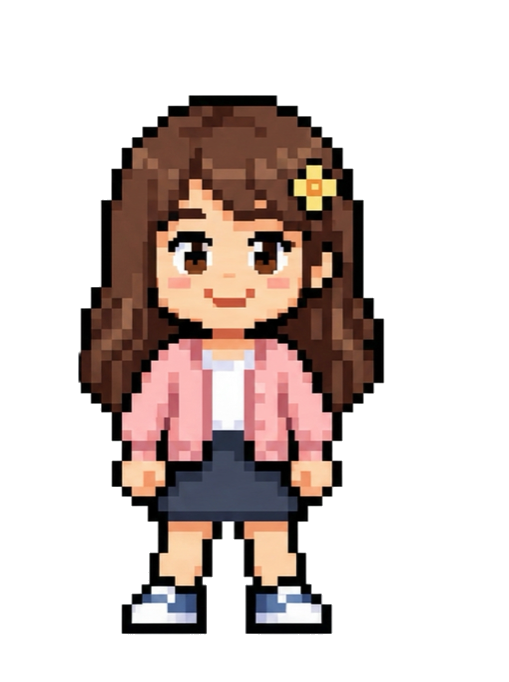
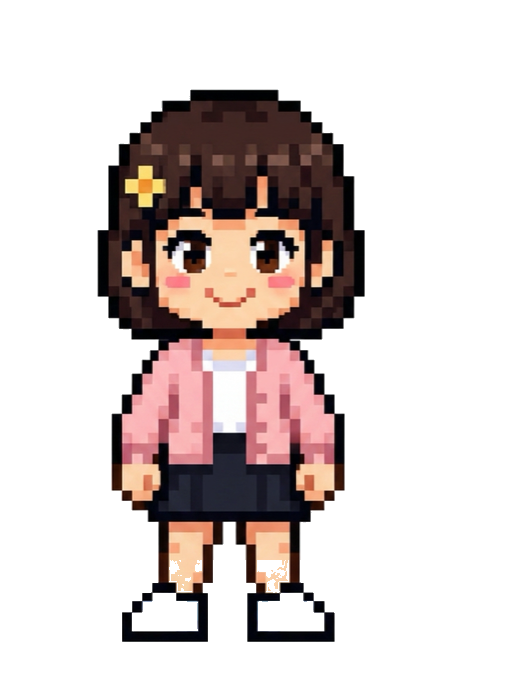
fix: Redraw Player 2 as cute short-haired girl facing right and fix polaroid flip button overlap

Changed region(s): [[0.1473, 0.1232, 0.7662, 0.9545], [0.3831, 0.5235, 0.4126, 0.5543]]

diff --git a/index.html b/index.html
@@ -198,7 +198,7 @@
 
     /* 3D Flippable Polaroid Memory Card */
     .polaroid-card{
-      display:none; margin-top:14px; perspective: 1000px;
+      display:none; margin-top:14px; margin-bottom:24px; perspective: 1000px;
       animation:polaroidPop .35s ease-out both;
     }
     .polaroid-card.show{display:block}
@@ -207,7 +207,7 @@
       100%{transform:scale(1) rotate(-1deg);opacity:1}
     }
     .polaroid-inner{
-      position: relative; width: 100%; transition: transform 0.6s cubic-bezier(0.4, 0, 0.2, 1);
+      position: relative; width: 100%; min-height: 410px; transition: transform 0.6s cubic-bezier(0.4, 0, 0.2, 1);
       transform-style: preserve-3d;
     }
     .polaroid-card.flipped .polaroid-inner{
@@ -217,13 +217,13 @@
       background:#fff; border:4px solid var(--ink); padding:16px 16px 14px;
       box-shadow:6px 6px 0 #0005; border-radius:6px;
       backface-visibility: hidden; -webkit-backface-visibility: hidden;
+      display: flex; flex-direction: column; justify-content: space-between; box-sizing: border-box;
     }
     .polaroid-front{
-      transform: rotate(-0.5deg);
+      transform: rotate(-0.5deg); min-height: 410px;
     }
     .polaroid-back{
-      transform: rotateY(180deg) rotate(0.5deg); position: absolute; top: 0; left: 0; width: 100%; height: 100%;
-      display: flex; flex-direction: column; justify-content: space-between; box-sizing: border-box;
+      transform: rotateY(180deg) rotate(0.5deg); position: absolute; top: 0; left: 0; width: 100%; height: 100%; min-height: 410px;
     }
     .polaroid-header{
       display:flex; justify-content:space-between; align-items:center; margin-bottom:10px;
@@ -243,10 +243,10 @@
     .polaroid-photo-frame{
       background: #fdfaf4; border: 3px solid var(--ink); padding: 8px 8px 10px;
       box-shadow: inset 0 0 8px rgba(0,0,0,0.06); text-align: center; border-radius: 4px;
-      flex: 1; display: flex; flex-direction: column; justify-content: center;
+      flex: 1; display: flex; flex-direction: column; justify-content: center; margin-bottom: 6px;
     }
     .polaroid-real-img{
-      width: 100%; height: 175px; object-fit: cover; border-radius: 2px;
+      width: 100%; height: 170px; object-fit: cover; border-radius: 2px;
       border: 2px solid #ecdac6; display: block;
     }
     .polaroid-photo-caption{
@@ -256,21 +256,26 @@
     .polaroid-flip-btn{
       width: 100%; background: #fef3c7; border: 2px dashed #f59e0b; border-radius: 8px;
       padding: 7px 10px; font-weight: 900; font-size: 12px; color: #92400e; cursor: pointer;
-      margin: 6px 0 10px; display: flex; align-items: center; justify-content: center; gap: 6px;
+      margin: 4px 0 8px; display: flex; align-items: center; justify-content: center; gap: 6px;
       transition: .12s transform, .12s background;
     }
     .polaroid-flip-btn:hover{background: #fde68a}
     .polaroid-flip-btn:active{transform: scale(0.97)}
 
     .finish-panel{
-      display:none;border:4px solid var(--ink);background:#fff8e8;padding:14px;margin-top:12px;
+      display:none;border:4px solid var(--ink);background:#fff8e8;padding:14px;margin-top:12px;margin-bottom:20px;
       text-align:center;box-shadow:4px 4px 0 #0004;border-radius:8px;
     }
     .finish-panel.show{display:block}
     .finish-panel .score{font-size:20px;font-weight:900;color:#c47b00;margin-bottom:6px}
     .skip-link{
-      display:block;margin:8px auto 0;border:0;background:transparent;text-decoration:underline;
+      display:block;margin:8px auto 16px;border:0;background:transparent;text-decoration:underline;
       color:var(--ink);font-size:11px;cursor:pointer;opacity:.65;
+    }
+    .screen:has(.polaroid-card.show) .skip-link,
+    .screen:has(.finish-panel.show) .skip-link,
+    .screen:has(.reveal-card.show) .skip-link{
+      display:none !important;
     }
 
     /* Final Reveal & Wedding Features */
@@ -1345,6 +1350,7 @@
     const finishPanel=document.getElementById(code+'-finish'); if(finishPanel) finishPanel.classList.remove('show');
     const memoryCard=document.getElementById(code+'-memory'); if(memoryCard) memoryCard.classList.remove('show');
     const revealCard=document.getElementById(code+'-reveal'); if(revealCard) revealCard.classList.remove('show');
+    const skipBtn=document.querySelector('#'+code+' .skip-link'); if(skipBtn) skipBtn.style.display='';
     const coinCount=document.getElementById(code+'-coin-count'); if(coinCount) coinCount.textContent='0';
     const status=document.getElementById(code+'-status');
     if(status) status.textContent=(code==='final' ? 'Collect love items →' : 'Run & Collect →');
@@ -1832,6 +1838,13 @@
     const g=games[code];
     if(g && g.finished) return;
     if(g){ g.finished=true; if(g.raf) cancelAnimationFrame(g.raf); }
+
+    // Explicitly hide skip-link button upon level completion
+    const screenEl = document.getElementById(code);
+    if(screenEl){
+      const skipBtn = screenEl.querySelector('.skip-link');
+      if(skipBtn) skipBtn.style.display = 'none';
+    }
 
     if(code==='final'){
       isWeddingMusic = true;
